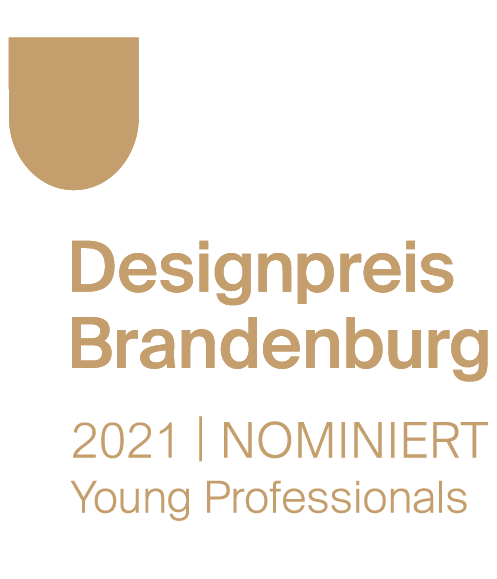
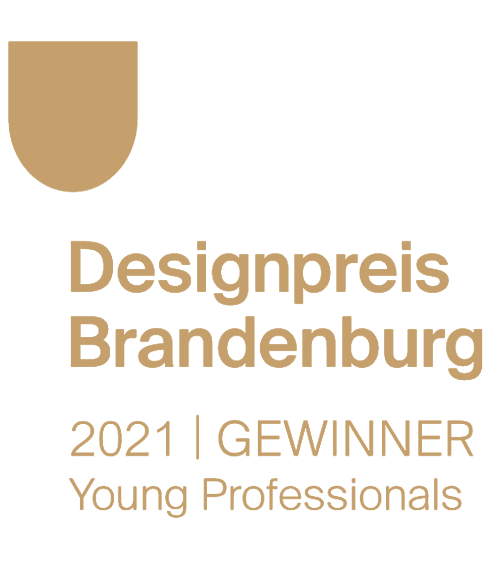
Update: DPBB award

diff --git a/pt/index.html b/pt/index.html
@@ -9,9 +9,9 @@
 	<meta http-equiv="X-UA-Compatible" content="ie=edge">
 	<meta name="author" content="Barbara Vissirini">
 	<meta name="description"
-		content="This little book explains German grammar using fonts, colors, and symbols as a visual support system to make language features visible to learners.">
+		content="Este pequeno livro explica a gramática alemã usando fontes, cores e símbolos como um sistema de suporte visual, que torna aspectos da lingua alemã visíveis para os alunos.">
 	<meta property="og:description"
-		content="This little book explains German grammar using fonts, colors, and symbols as a visual support system to make language features visible to learners.">
+		content="Este pequeno livro explica a gramática alemã usando fontes, cores e símbolos como um sistema de suporte visual, que torna aspectos da lingua alemã visíveis para os alunos.">
 	<meta property="og:type" content="website">
 	<meta property="og:title" content="Dieses kleine Buch ist für dich">
 	<meta name="twitter:title" content="Dieses kleine Buch ist für dich">
@@ -152,16 +152,16 @@
 		<h1 class="title-aktuelles">Novidades</h1>
 		<section class="news">
 				<h1>2021</h1>
-				<h4>Prêmio</h4>
-					<h2>German Design Award 2022</h2>
-					<p><em>Dieses kleine Buch ist für dich</em> ganhou o prêmio<a
-							href="https://www.german-design-award.com/en/the-winners/gallery/detail/39811-dieses-kleine-buch-ist-fuer-dich.html"> German Design Award 2022 <i
+				<h4>Premiação</h4>
+				<h2>Designpreis Brandenburg</h2>
+				<p><em>Dieses kleine Buch ist für dich</em> recebeu o prêmio <a href="https://designpreis-brandenburg.de/nominierte/">Designpreis Brandenburg 2021 <i class="fas fa-external-link-alt"
+                    style="font-size: 12px;">&nbsp;</i></a> na categoria jovens profissionais.</p>
+				<h4>Premiação</h4>
+					<h2>German Design Award</h2>
+					<p><em>Dieses kleine Buch ist für dich</em> recebeu o prêmio<a
+							href="https://www.german-design-award.com/en/the-winners/gallery/detail/39811-dieses-kleine-buch-ist-fuer-dich.html"> German Design Award Winner 2022 <i
 								class="fas fa-external-link-alt" style="font-size: 12px;">&nbsp;</i></a> na categoria
 						Excelente Design de Comunicação.</p>
-						<h4>Nomeação</h4>
-				<h2>Designpreis Brandenburg</h2>
-				<p><em>Dieses kleine Buch ist für dich</em> foi nomeado para o prêmio <a href="https://designpreis-brandenburg.de/nominierte/">Designpreis Brandenburg 2021 <i class="fas fa-external-link-alt"
-                    style="font-size: 12px;">&nbsp;</i></a> na categoria jovens profissionais. Os ganhadores serão anunciados no dia 29 de Novembro. Estamos torcendo!</p>
 				<section>	
 				<h4>Impressão</h4>
 				<h2>Primeira edição</h2>
@@ -215,7 +215,7 @@
 		<section class="desc2">
 			<section>
 			<h3><a href="https://designpreis-brandenburg.de/nominierte/">Designpreis Brandenburg 2021</a></h3>
-			<p>Finalista na categoria Jovens Profissionais</p></section></section>
+			<p>Ganhador na categoria Jovens Profissionais</p></section></section>
 		<section class="signte DPBB21">
 		</section></section>
 	</div>

diff --git a/en/index.html b/en/index.html
@@ -156,17 +156,17 @@
 	<div class="container-aktuelles" id="aktuelles">
 		<h1 class="title-aktuelles">News</h1>
 		<section class="news">
-				<h1>2021</h1>		
+				<h1>2021</h1>	
+				<h4>Awarded</h4>
+				<h2>Designpreis Brandenburg</h2>
+				<p><em>Dieses kleine Buch ist für dich</em> won the <a href="https://designpreis-brandenburg.de/nominierte/">Designpreis Brandenburg 2021 <i class="fas fa-external-link-alt"
+                    style="font-size: 12px;">&nbsp;</i></a> in the category Young Professionals.</p>	
 					<h4>Awarded</h4>
-					<h2>German Design Award 2022</h2>
+					<h2>German Design Award</h2>
 					<p><em>Dieses kleine Buch ist für dich</em> received the Winner distinction of the <a
 							href="https://www.german-design-award.com/en/the-winners/gallery/detail/39811-dieses-kleine-buch-ist-fuer-dich.html">German Design Award 2022 <i
 								class="fas fa-external-link-alt" style="font-size: 12px;">&nbsp;</i></a> in the category
-						Excellent Communications Design.</p>
-				<h4>Nomination</h4>
-				<h2>Designpreis Brandenburg</h2>
-				<p><em>Dieses kleine Buch ist für dich</em> has been nominated for the <a href="https://designpreis-brandenburg.de/nominierte/">Designpreis Brandenburg 2021 <i class="fas fa-external-link-alt"
-                    style="font-size: 12px;">&nbsp;</i></a> in the category Young Professionals. The winners will be announced on November 29th. Fingers crossed!</p>	
+						Excellent Communications Design.</p>	
 				<section><h4>Printed</h4>
 				<h2>First edition</h2>
 				<p>The first edition of <em>Dieses kleine Buch ist für dich</em> with 500 copies was produced in
@@ -222,7 +222,7 @@
 		<section class="desc2">
 			<section>
 			<h3><a href="https://designpreis-brandenburg.de/nominierte/">Designpreis Brandenburg 2021</a></h3>
-			<p>Finalist in the category Young Professionals</p></section></section>
+			<p>Winner in the category Young Professionals</p></section></section>
 		<section class="signte DPBB21">
 		</section></section>
 	</div>

diff --git a/index.html b/index.html
@@ -185,17 +185,16 @@
 			<section>
 				<h1>2021</h1>
 				<h4>Ausgezeichnet</h4>
-				<h2>German Design Award 2022</h2>
+				<h2>Designpreis Brandenburg</h2>
+				<p><em>Dieses kleine Buch ist für dich</em> erhielt den <a
+						href="https://designpreis-brandenburg.de/nominierte/">Designpreis Brandenburg 2021 <i
+							class="fas fa-external-link-alt" style="font-size: 12px;">&nbsp;</i></a> in der Kategorie
+					Kommunikationsdesign - Young Professionals.</p>
+				<h4>Ausgezeichnet</h4>
+				<h2>German Design Award</h2>
 				<p><em>Dieses kleine Buch ist für dich</em> erhielt die “Winner”-Auszeichnung in der Kategorie Excellent Communications Design des <a
 						href="https://www.german-design-award.com/die-gewinner/galerie/detail/39609-dieses-kleine-buch-ist-fuer-dich.html">German Design Award 2022 <i
 							class="fas fa-external-link-alt" style="font-size: 12px;">&nbsp;</i></a>.</p>
-				<h4>Nominiert</h4>
-				<h2>Designpreis Brandenburg 2021</h2>
-				<p><em>Dieses kleine Buch ist für dich</em> wurde für den <a
-						href="https://designpreis-brandenburg.de/nominierte/">Designpreis Brandenburg 2021 <i
-							class="fas fa-external-link-alt" style="font-size: 12px;">&nbsp;</i></a> in der Kategorie
-					Young Professionals nominiert. Die Gewinner*innen werden am 29. November bekannt
-					gegeben.</p>
 				<h4>Gedruckt</h4>
 				<h2>Erstauflage</h2>
 				<p>Eine erste Druckauflage mit 500 Exemplaren ist in Zusammenarbeit mit dem International
@@ -252,7 +251,7 @@
 		<section class="desc2">
 			<section>
 			<h3><a href="https://designpreis-brandenburg.de/nominierte/">Designpreis Brandenburg 2021</a></h3>
-			<p>Nominiert in der Kategorie Young Professionals</p></section></section>
+			<p>Gewinner in der Kategorie Young Professionals</p></section></section>
 		<section class="signte DPBB21">
 		</section></section>
 	</div>
